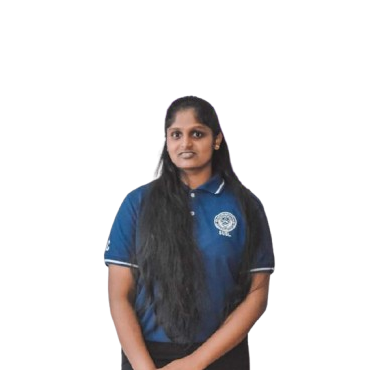
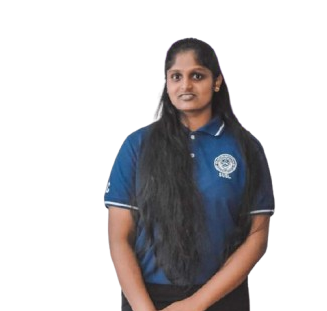
Comple about me section

Changed region(s): [[0.2752, 0.1158, 0.8563, 1.0]]

diff --git a/src/components/AboutMe.js b/src/components/AboutMe.js
@@ -1,17 +1,50 @@
 import React from 'react';
+import profilePic from '../assets/img/about me.jpg'; // Adjust the path to your profile picture
 
 const AboutMe = () => {
   return (
     <section id="aboutme" className="py-10">
-      <h2 className="text-4xl font-bold text-center">About Me</h2>
-      <p className="text-center max-w-xl mx-auto">
-        Hello! I'm Deepika Sewwandi, a software developer with a passion for creating intuitive user experiences and solving real-world problems. Currently pursuing my degree in Computing and Information Systems, I am excited about the opportunities to grow as a developer and contribute to innovative projects.
-      </p>
-      <div className="flex justify-center mt-4">
-        <a href="#downloadcv" className="px-6 py-3 border-2 border-black">Download CV</a>
+      <h2 className="text-4xl font-bold text-center mb-8">About Me</h2>
+      
+      {/* Flex container to align the image and description */}
+      <div className="flex flex-col lg:flex-row items-center lg:items-start justify-center gap-8 lg:gap-16 max-w-5xl mx-auto">
+        
+        {/* Left side: Profile picture */}
+        <div className="flex-shrink-0">
+          <img src={profilePic} alt="Deepika Sewwandi" className="w-100 h-100 lg:w-64 lg:h-64 rounded-full object-cover shadow-lg" />
+        </div>
+        
+        {/* Right side: Description */}
+        <div className="text-center lg:text-left max-w-xl">
+          <p>
+            Hello! I’m Deepika Sewwandi Rajapaksha, a UI/UX Designer, Front-End Developer, and Software Developer with a passion for creating intuitive and functional digital experiences. 
+            I specialize in developing user-friendly interfaces and responsive, efficient web applications.
+          </p>
+          <br />
+          <p>
+            I'm currently pursuing a Bachelor's degree in Computing and Information at the Faculty of Computing, Sabaragamuwa University, where I am expanding my skills in web development, 
+            software design, and technology-driven problem-solving. My academic journey equips me with the latest industry knowledge and strengthens my technical expertise.
+          </p>
+          <br />
+          <p>
+            Driven by innovation and attention to detail, I am always eager to refine my skills and contribute to impactful digital solutions.
+          </p>
+
+          {/* Download CV Button */}
+          <div className="mt-6">
+            <a 
+              href="/assets/Deepika Sewwandi CV.pdf"  // Path to the PDF in the public folder
+              download="Deepika Sewwandi CV.pdf"  // Specify the download file name
+              className="bg-transparent border border-blue-500 text-blue-500 px-4 py-2 rounded hover:bg-blue-500 hover:text-white"
+            >
+              Download CV
+            </a>
+          </div>
+        </div>
       </div>
     </section>
   );
 };
 
 export default AboutMe;
+
